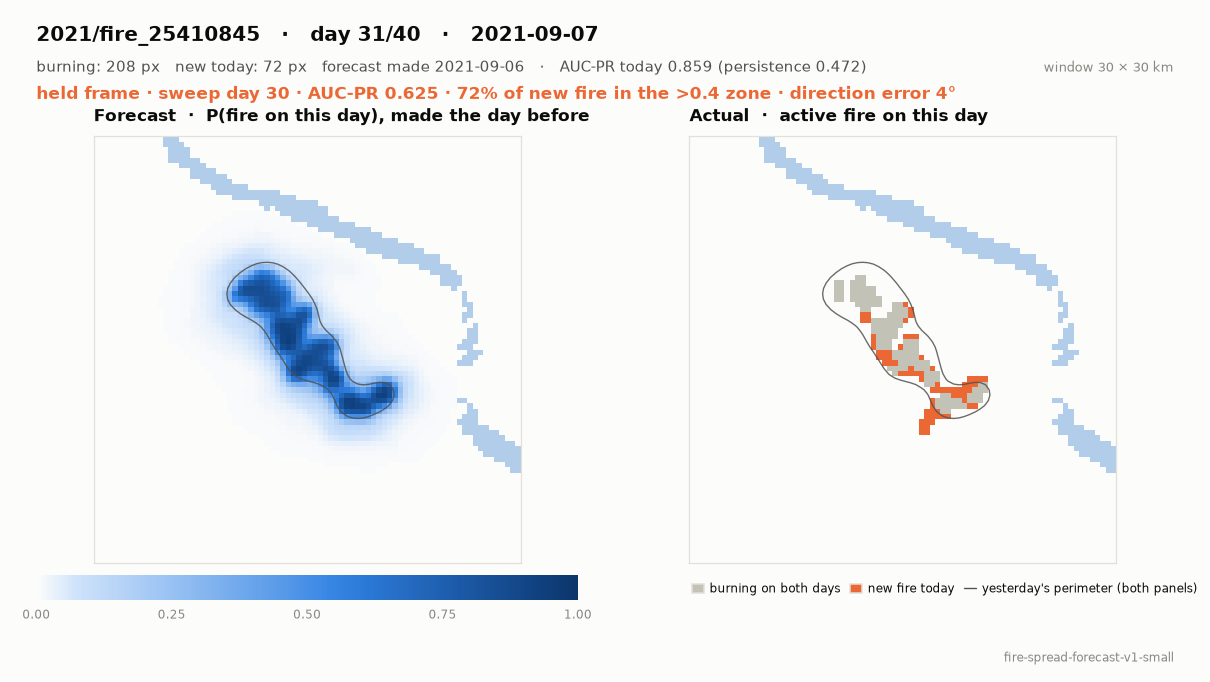
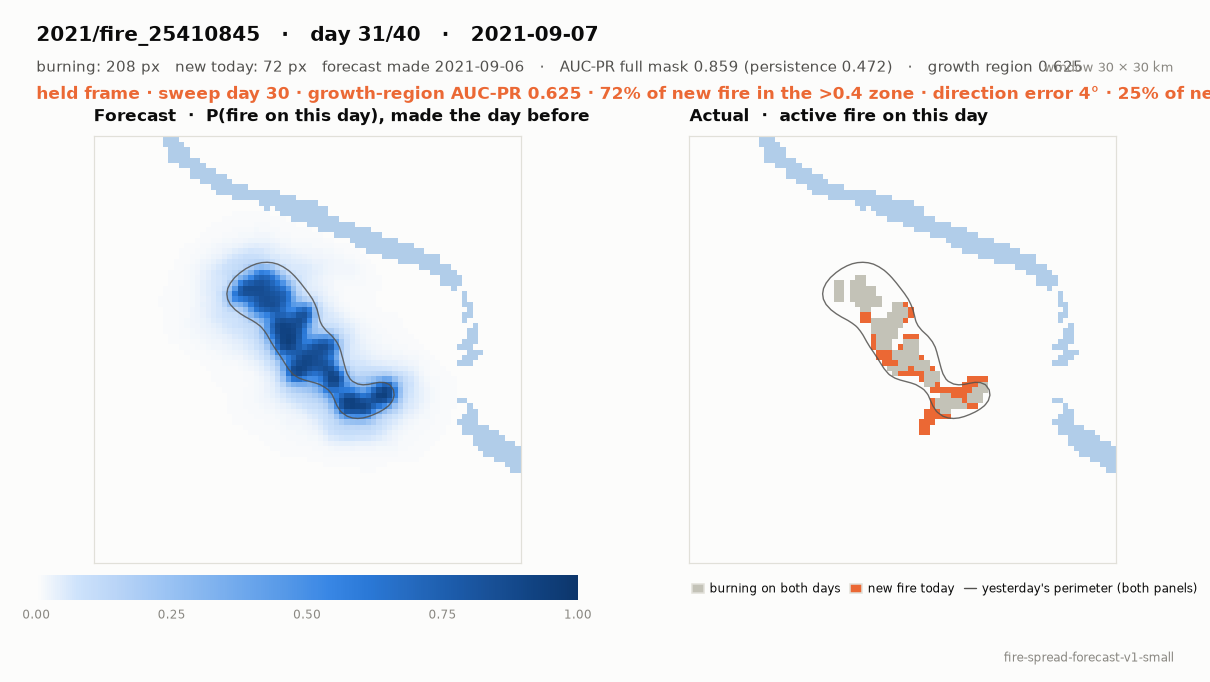
demo: growth-region AUC-PR in replay header; day_sweep tables with outside-perimeter share and directional flags

Changed region(s): [[0.2446, 0.0924, 1.0, 0.154]]

diff --git a/demo/frames/README.md b/demo/frames/README.md
@@ -10,3 +10,9 @@ Shortlist (new fire >= 30 px):
 - fire_25547988 (Redding): day07 AUC-PR 0.318 / overlap 0.65 / 7°; day08 0.246 / 0.71 / 26°.
 - fire_25410845 (Lake Chelan area): day30 0.625 / 0.72 / 4°; day11 0.649 / 0.71 / 15°; day26 0.503 / 0.68 / 28°; day27 0.580 / 0.58 / 64°; day31 0.400 / 0.89 / 68°.
 The raster of fire_25547988 also contains a second, separate fire in its NW corner; its pixels count in the new-fire totals.
+
+Outside-perimeter share (`day_sweep.txt` per fire, column `outside`, `*` = >=50% of new fire beyond yesterday's smoothed perimeter):
+the model's strongest days are mostly infill days (outside 0.25-0.45). On the flagged directional days it is weak:
+Chelan day09 (outside 0.67) AUC-PR 0.553 but overlap 0.26 and direction error 138°; day28 (0.63) overlap 0.26, 136°;
+day21 (0.84) overlap 0.19, 59°; Redding day08 (0.50) overlap 0.71, 26° is the one borderline directional success.
+Days with outside = 1.00 and AUC-PR ~0 are new ignitions / spotting far from the fire, which the model cannot see.
